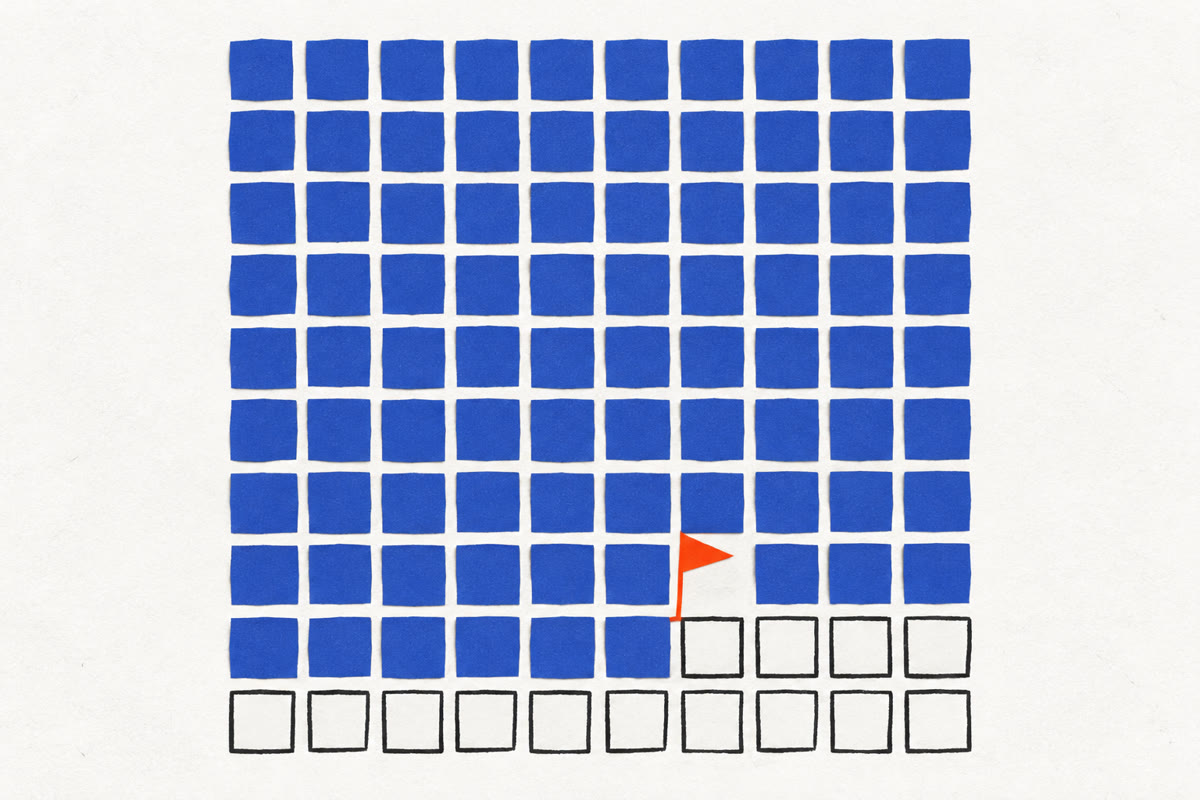
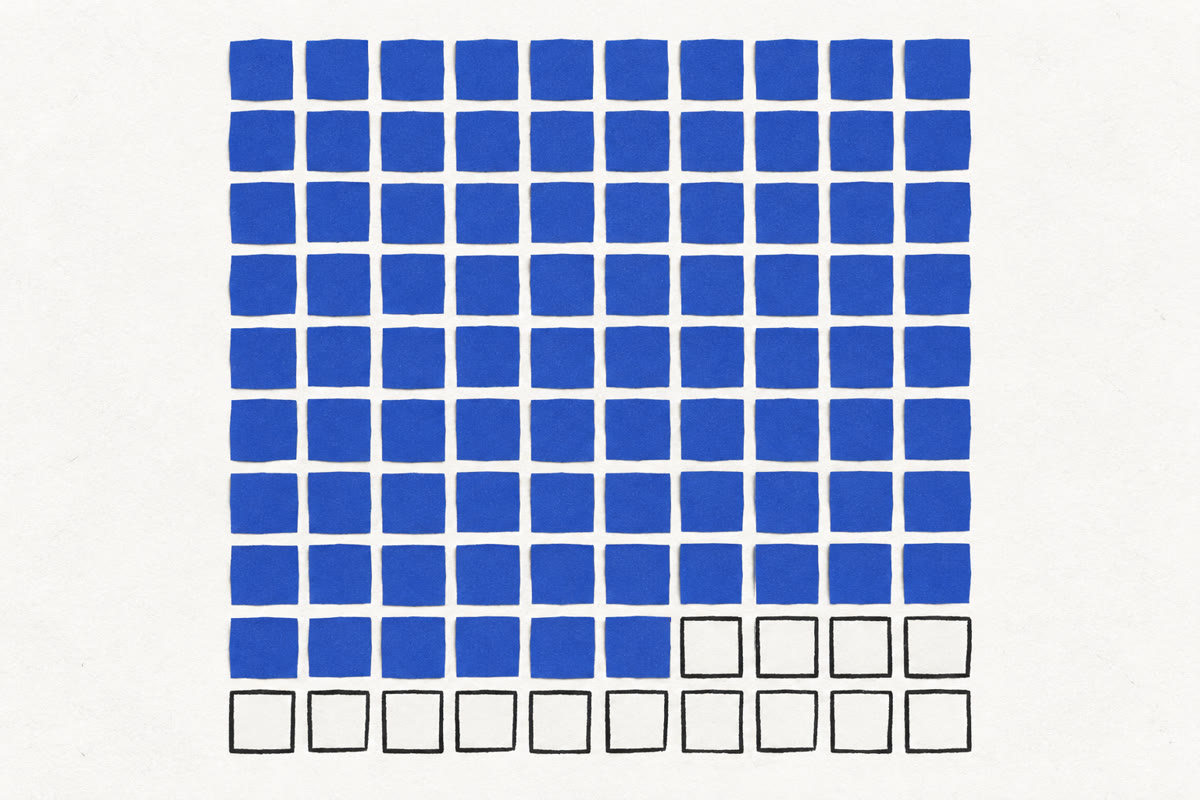
Issue #12: exact 86-cell waffle, chart legends in figcaption (image_caption field)

Changed region(s): [[0.555, 0.6562, 0.6475, 0.7812], [0.5858, 0.5625, 0.6167, 0.5938], [0.555, 0.8125, 0.5858, 0.8438]]

diff --git a/index.html b/index.html
@@ -244,7 +244,7 @@ function itemHTML(it, plateNo){
     <div><span class="chip ${kc}">${it.kind}</span><span class="rt">${it.reading_time||"1 min read"}</span></div>
     <h2 class="headline">${titleCase(it.headline)}</h2>
     <p class="deck">${it.deck}</p>
-    ${it.image ? `<figure class="art"><img src="${it.image}" alt="${it.image_alt||it.headline}" loading="lazy"><figcaption><span>Illustration &middot; The Daily Draft</span><span class="plate-no">Plate № ${plateNo}</span></figcaption></figure>` : ""}
+    ${it.image ? `<figure class="art"><img src="${it.image}" alt="${it.image_alt||it.headline}" loading="lazy"><figcaption><span>${it.image_caption || 'Illustration &middot; The Daily Draft'}</span><span class="plate-no">Plate № ${plateNo}</span></figcaption></figure>` : ""}
     <div class="sec">The key points</div>
     <ol class="points">${pts.map(function(p){return "<li><p>"+p+"</p></li>"}).join("")}</ol>
     ${it.why ? `<div class="why"><span class="why-label">Why it matters to you</span><p>${it.why}</p></div>` : ""}
